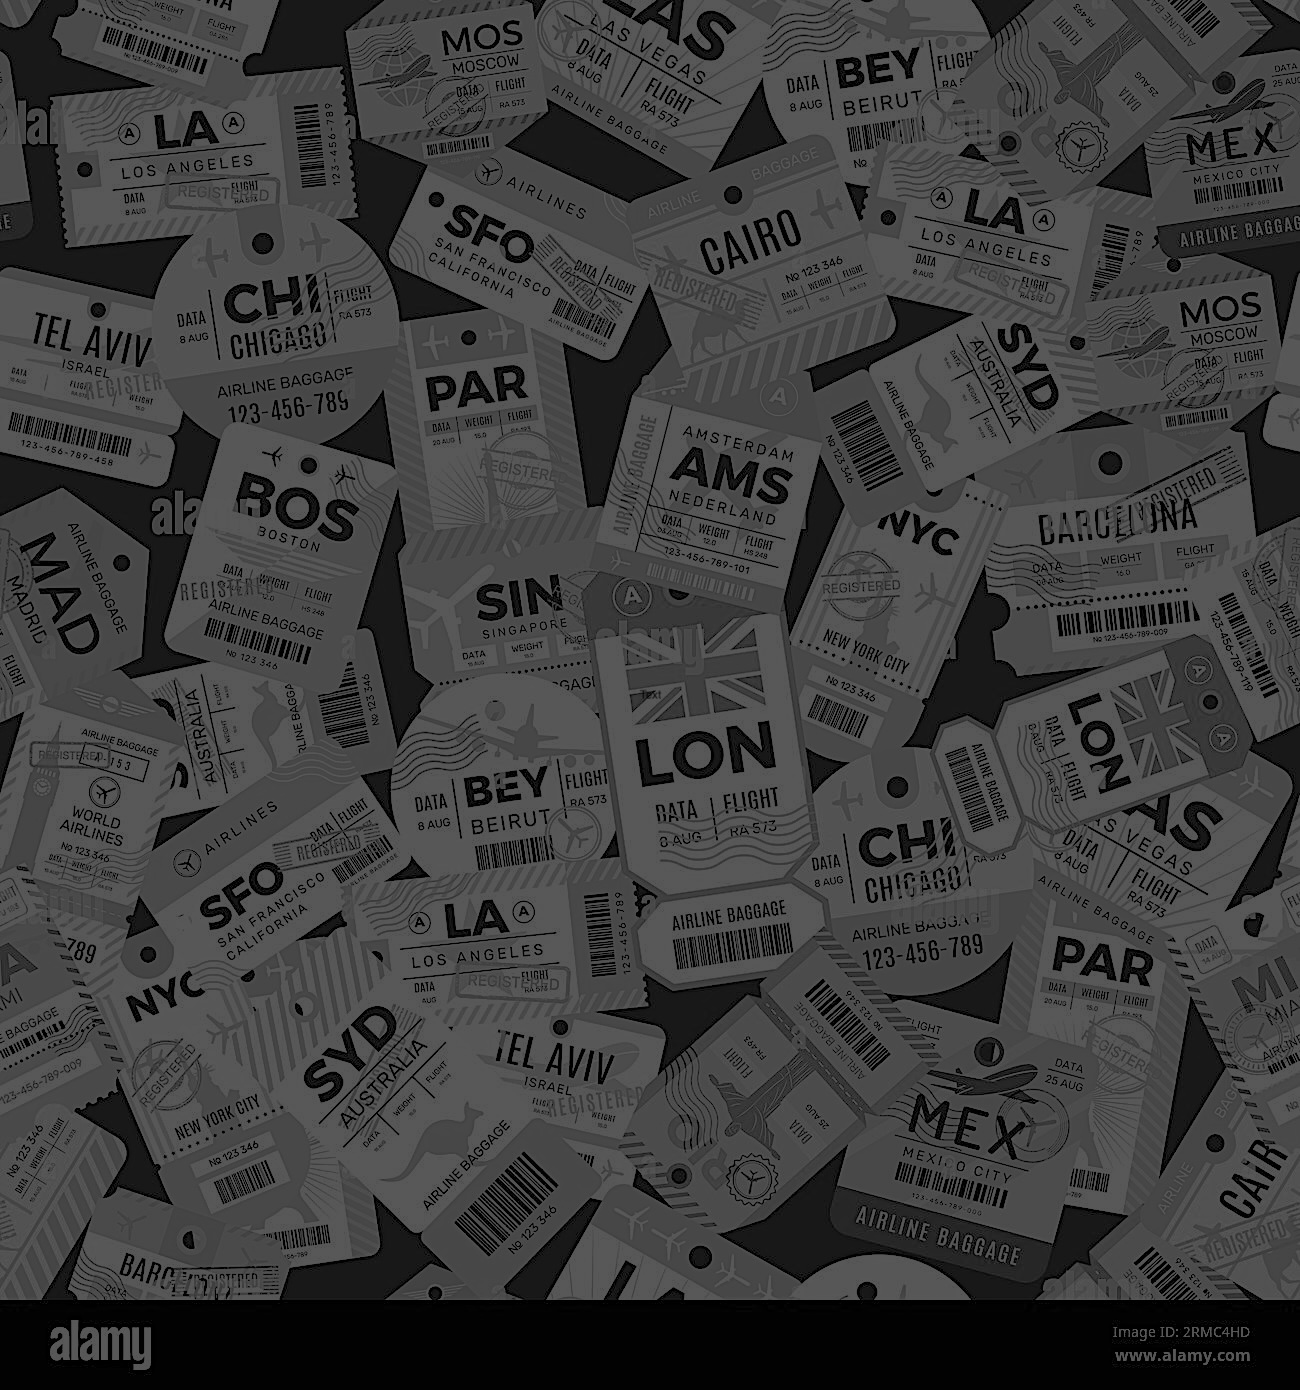
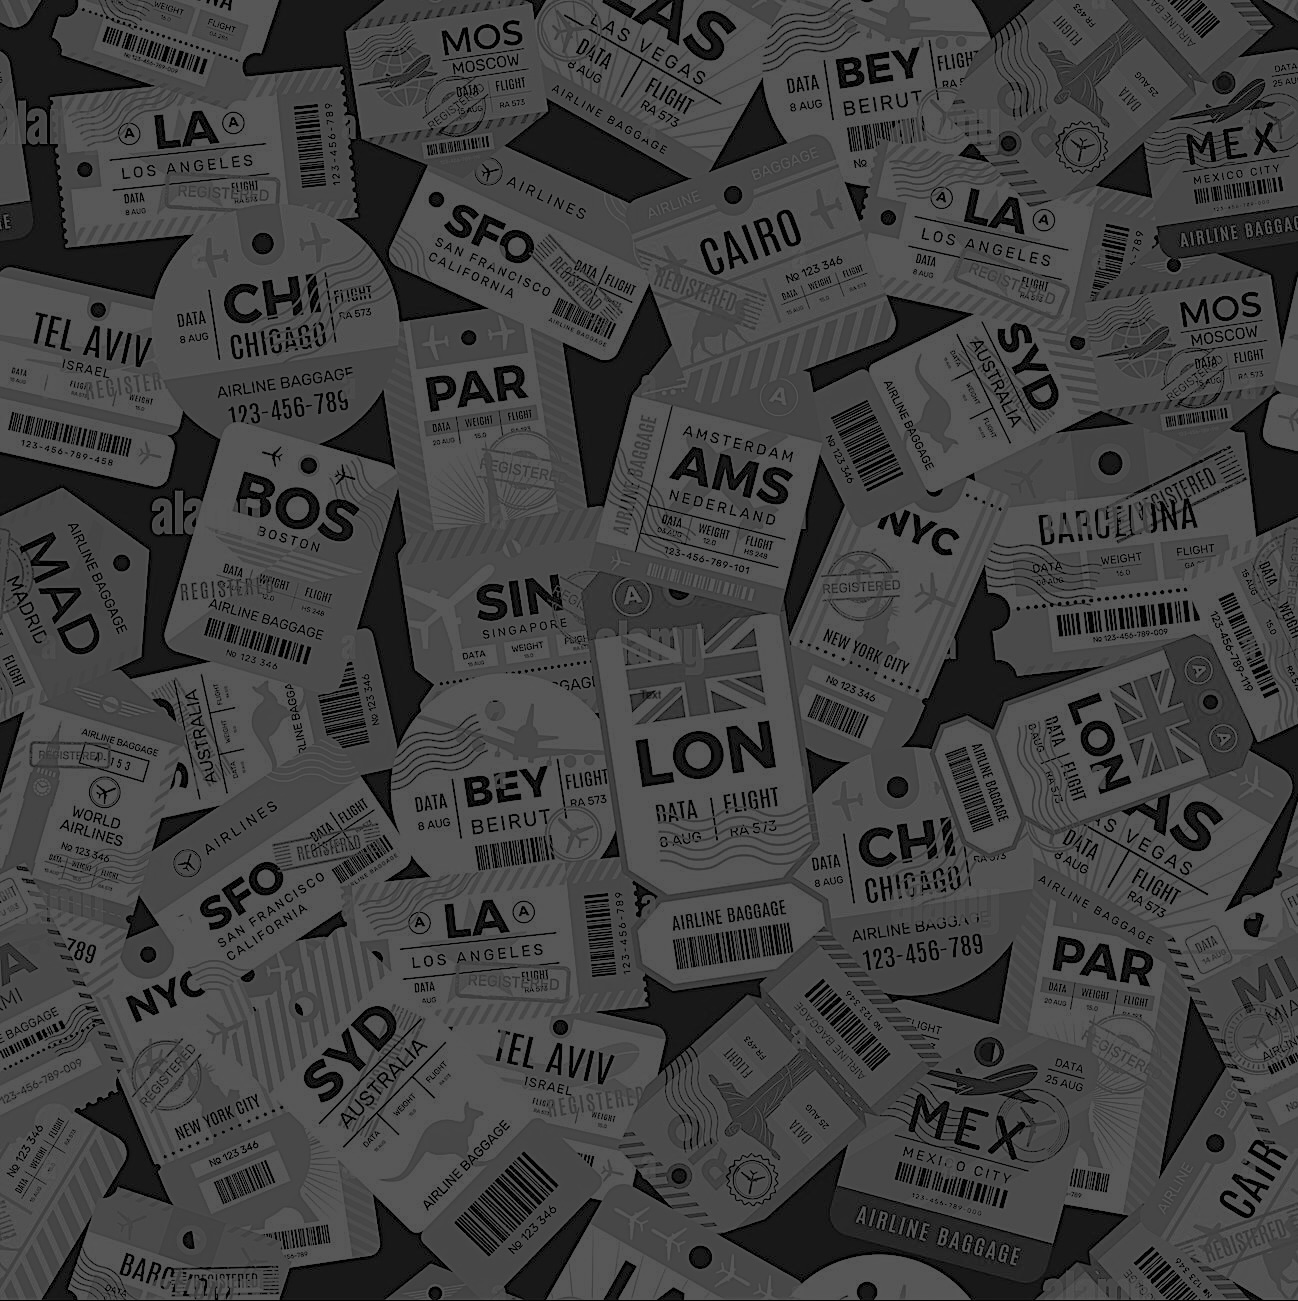
Added background image and changed font colors.

diff --git a/index.html b/index.html
@@ -9,62 +9,72 @@
 </head>
 
 <body>
-  
+  <div class="overlay">
+
+
+
+    <div class="container">
+
+
       <header>
         <h1>
           <span class="fancy">M</span>y
           <span class="fancy">P</span>erfectly
           <span class="fancy">S</span>olo
           <span class="fancy">A</span>dventures
-  </h1>
+        </h1>
 
-  </header>
+      </header>
 
-  <hr>
+      <hr>
 
-  <p>Ever wanted to travel but have no one to go with? It's time to stop waiting and go by yourself! Back in 2008, I
-    decided I wanted to vist London and it finally occured to me that if I continue to wait for someone to want or be
-    willing to go with me, I could be waiting forever. So, I booked my flight and took off on my first solo trip and
-    I've not looked back since!</p>
-  <p>Each city or country listed below will lead to its own separate page where you can read about what I did, who I
-    flew, where I stayed, what I ate and the ups and downs of being an introverted solo traveler. </p>
-  <ul>
-    <li><a href="index2.html">London, UK</a></li>
-    <li>Amsterdam, The Netherlands</li>
-    <li>Paris, France (not solo)</li>
-    <li>Edinburgh, Scotland</li>
-    <li>Ireland (not solo)</li>
-    <li>Turkey (not solo)</li>
-    <li>Iceland</li>
-    <li>New Zealand</li>
-  </ul>
+      <p>Ever wanted to travel but have no one to go with? It's time to stop waiting and go by yourself! Back in 2008, I
+        decided I wanted to vist London and it finally occured to me that if I continue to wait for someone to want or
+        be
+        willing to go with me, I could be waiting forever. So, I booked my flight and took off on my first solo trip and
+        I've not looked back since!</p>
+      <p>Each city or country listed below will lead to its own separate page where you can read about what I did, who I
+        flew, where I stayed, what I ate and the ups and downs of being an introverted solo traveler. </p>
+      <ul>
+        <li><a href="index2.html">London, UK</a></li>
+        <li>Amsterdam, The Netherlands</li>
+        <li>Paris, France (not solo)</li>
+        <li>Edinburgh, Scotland</li>
+        <li>Ireland (not solo)</li>
+        <li>Turkey (not solo)</li>
+        <li>Iceland</li>
+        <li>New Zealand</li>
+      </ul>
 
 
-  <div class="card">
-    <div class="centered">
-    <div class="content">
-    <img src="towerbridge.jpeg" alt="Tower Bridge" style="width:500px;height:500px;">
-    <p style="text-align: center; color: #000000;">
-  Of all the places I've been and seen, this is still my favorite icon of all time and lives rent free in my mind.
-  <br><i>Taken in August 2023 on my iPhone 13 Pro Max.</i>
-</p>
+      <div class="card">
+        <div class="centered">
+          <div class="content">
+            <img src="towerbridge.jpeg" alt="Tower Bridge" style="width:500px;height:500px;">
+            <p style="text-align: center; color: #000000;">
+              Of all the places I've been and seen, this is still my favorite icon of all time and lives rent free in my
+              mind.
+              <br><i>Taken in August 2023 on my iPhone 13 Pro Max.</i>
+            </p>
 
+          </div>
+        </div>
+      </div>
+      <h2>I &lt;3 London!</h2>
+
+      <hr>
+      <p>I've been wanting to do this website for ages so I'm glad to have this medium to pursue it. Also, if I ever go
+        live
+        with it, I will take my name out and only sign off with my well known user name of rokrchik. Footer below is for
+        in
+        class only.</p>
+
+      <footer>
+        <p style="text-align: center;">&copy; Author: Kerry G</p>
+        <p style="text-align: center;"><a href="mailto:kerrylyn@gmail.com">kerrylyn@gmail.com</a></p>
+      </footer>
+    </div>
   </div>
-  </div>
-  </div>
-  <h2>I &lt;3 London!</h2>
-
-  <hr>
-  <p>I've been wanting to do this website for ages so I'm glad to have this medium to pursue it. Also, if I ever go live
-    with it, I will take my name out and only sign off with my well known user name of rokrchik. Footer below is for in
-    class only.</p>
-
-  <hr>
-
-  <footer>
-    <p style="text-align: center;">&copy; Author: Kerry G</p>
-    <p style="text-align: center;"><a href="mailto:kerrylyn@gmail.com">kerrylyn@gmail.com</a></p>
-  </footer>
 </body>
 
 </html>

diff --git a/styles.css b/styles.css
@@ -1,57 +1,101 @@
-html, body {
+html,
+body {
     font-family: 'Arial', sans-serif;
     background-color: #dddfe6;
     color: rgb(14, 13, 13);
     height: 100%;
-    margin: 50px auto;
-    padding: 30px;
-    width: 80%;
-    box-shadow: 0 2px 8px rgba(0,0,0,0.1);
+    margin: 0;
+    padding: 0;
+    background-image: url('traveltags.jpg');
+    background-size: cover;
+    background-position: center;
+    background-repeat: repeat;
+    font-family: 'Arial', sans-serif;
 }
+
+.overlay {
+    background-color: rgba(240, 240, 240, 0.9);
+    padding: 30px;
+    margin: 50px auto;
+    width: 80%;
+    box-shadow: 0 2px 8px rgba(0, 0, 0, 0.2);
+    border-radius: 10px;
+}
+
 .fancy {
-  font-family: 'Georgia', serif;
-  font-size: 3.5rem;
-  color: #ff4e50;
-  font-weight: bold;
-  text-shadow: 2px 2px 4px rgba(0,0,0,0.2);
-  transition: transform 0.3s ease;
+    font-family: 'Georgia', serif;
+    font-size: 3.5rem;
+    color: #ff4e50;
+    font-weight: bold;
+    text-shadow: 2px 2px 4px rgba(0, 0, 0, 0.2);
+    transition: transform 0.3s ease;
 }
 
 .fancy:hover {
-  transform: scale(1.2) rotate(-3deg);
+    transform: scale(1.2) rotate(-3deg);
 }
+
+.container {
+    width: 80%;
+    height: 80%;
+    margin: 50px auto;
+    padding: 30px;
+    box-shadow: none;
+}
+
 .centered {
-  display: flex;
-  justify-content: center;
-  align-items: center;
-  padding: 3rem;
-  background-size: cover;
-  background-position: center;
-  background-repeat: no-repeat;
-  border-radius: 10px;
-  box-shadow: 0 4px 10px rgba(0,0,0,0.2);
+    display: flex;
+    justify-content: center;
+    align-items: center;
+    padding: 3rem;
+    width: 100%;
+    height: 100%;
+    background-size: cover;
+    background-position: center;
+    background-repeat: no-repeat;
+    border-radius: 10px;
+    box-shadow: 0 4px 10px rgba(0, 0, 0, 0.2);
+    box-sizing: border-box;
 }
+
 .content {
     font-size: 1.4rem;
     line-height: 1.0;
     margin: 2rem auto;
-    width: 80%;
+    width: 100%;
+    height: 100%;
 }
- h1 {
-  font-style: italic;
-  font-weight: bold;
-  font-size: 3rem;
-  text-align: center;
-  padding: 10px 20px;
-  border-radius: 8px;
-  background: linear-gradient(to right, #e88182, #b20e03);
-  -webkit-background-clip: text;
-  -webkit-text-fill-color: transparent;
-  color: transparent;
-  display: block;         
-  margin: 0 auto;         
-  width: fit-content;   
+
+.card {
+    width: 100%;
+    height: 100%;
+    margin-bottom: 20px;
+    padding: 15px;
+    background-color: #e9ecef;
+    border-radius: 8px;
+    border: 1px solid #ccc;
+    border-bottom: none;
+    /* 👈 this removes the bottom border */
+    box-sizing: border-box;
 }
+
+
+h1 {
+    font-style: italic;
+    font-weight: bold;
+    font-size: 3rem;
+    text-align: center;
+    padding: 10px 20px;
+    border-radius: 8px;
+    background: linear-gradient(to right, #e88182, #b20e03);
+    -webkit-background-clip: text;
+    -webkit-text-fill-color: transparent;
+    color: transparent;
+    display: block;
+    margin: 0 auto;
+    width: fit-content;
+}
+
 h2 {
     font-family: 'cursive';
     font-style: italic;
@@ -60,10 +104,11 @@ h2 {
     text-align: center;
     color: rgb(128, 0, 128);
 }
+
 img {
-  display: block; 
-  margin: 0 auto; 
-  width: 50%; 
+    display: block;
+    margin: 0 auto;
+    width: 50%;
 }
 
 
@@ -71,49 +116,37 @@ a[href^="https"] {
     color: rgb(252, 211, 211);
     text-decoration: none;
 }
+
 .centered-link {
-  color: #ff000d;
-  text-decoration: none; /* optional */
+    color: #ff000d;
+    text-decoration: none;
 }
 
 .centered-link:hover {
-  color: #ff6666; /* lighter red on hover */
+    color: #ff6666;
 }
-
 
 hr {
     border: none;
     border-top: 2px solid #ccc;
     margin: 20px 0;
-    width: 100%;
+    width: 80%;
 }
 
 a:hover {
     color: #ff000d;
 }
+
 p::first-letter {
     font-size: 2rem;
     color: #ff000d;
 }
-.card {
-  margin-bottom: 20px;
-  padding: 15px;
-  background-color: #e9ecef;
-  border-radius: 8px;
-  border: 1px solid #ccc;
-}
-
 
 footer p:last-of-type a::first-letter {
-  font-size: initial;
-  color: initial;
+    font-size: initial;
+    color: initial;
 }
+
 .page-footer {
-  color: #ff000d;
+    color: #ff000d;
 }
-
-
-
-
-
-

diff --git a/index2.html b/index2.html
@@ -6,15 +6,10 @@
     <title>My Perfectly Solo Adventures - Page 2</title>
     <style>
         body {
-            background-image: url('traveltags.jpg');
-            background-size: cover;
-            background-position: center;
-            background-repeat: no-repeat;
-            background-attachment: fixed;
             margin: 0;
             padding: 0;
             font-family: 'Arial', sans-serif;
-            color: #ff000d;
+            color: #020202;
         }
 
 
